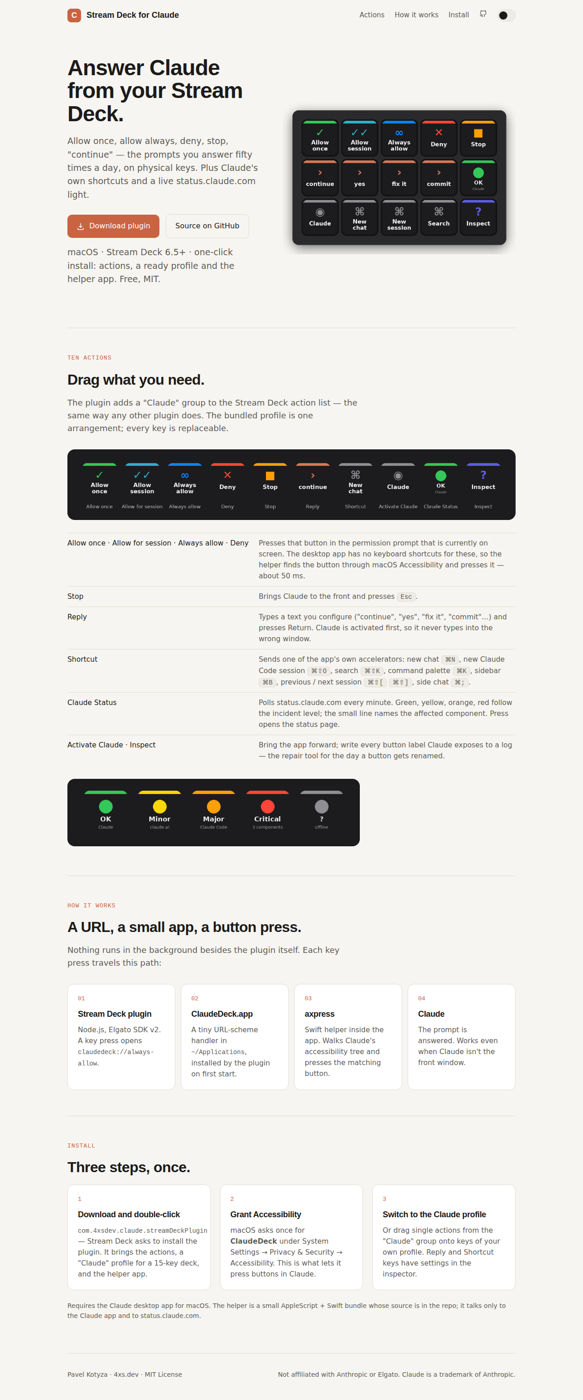
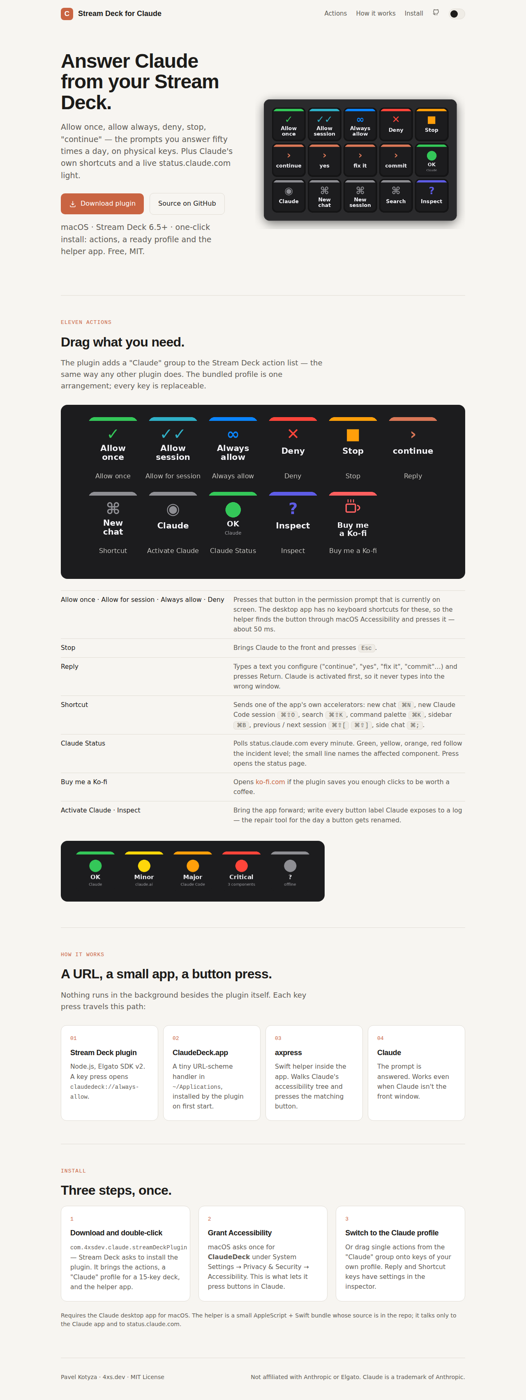
Add Buy me a Ko-fi action (1.2.0); two-row action sheet
Claude-Session: https://claude.ai/code/session_01CF32YfgR6FwNua8v9qMVw3

diff --git a/docs/index.html b/docs/index.html
@@ -42,8 +42,8 @@ h2{font-size:32px;font-weight:700;margin-bottom:12px}
 .card h3{font-size:18px;margin-bottom:8px}
 .card p{margin:0;color:var(--fg2);font-size:15.5px}
 .num{font-family:"IBM Plex Mono",monospace;color:var(--accent);font-size:13px;margin-bottom:10px}
-.sheet{background:var(--deck);border-radius:16px;padding:24px 20px 8px;margin:0 0 28px;overflow:auto}
-.sheet img{display:block;width:100%;min-width:900px;height:auto}
+.sheet{background:var(--deck);border-radius:16px;padding:20px;margin:0 0 28px}
+.sheet img{display:block;width:100%;max-width:890px;margin:0 auto;height:auto}
 .states{background:var(--deck);border-radius:16px;padding:18px 20px;display:inline-block}
 .states img{display:block;height:112px;width:auto}
 table{width:100%;border-collapse:collapse;font-size:15.5px}
@@ -79,16 +79,17 @@ footer a{color:var(--fg2)}footer a:hover{color:var(--fg)}
   </div>
 
   <section id="actions">
-    <div class="eyebrow">Ten actions</div>
+    <div class="eyebrow">Eleven actions</div>
     <h2>Drag what you need.</h2>
     <p class="lead">The plugin adds a "Claude" group to the Stream Deck action list — the same way any other plugin does. The bundled profile is one arrangement; every key is replaceable.</p>
-    <div class="sheet"><img src="img/actions.png" width="1492" height="194" alt="All ten actions: Allow once, Allow for session, Always allow, Deny, Stop, Reply, Shortcut, Activate Claude, Claude Status, Inspect"></div>
+    <div class="sheet"><img src="img/actions.png" width="890" height="384" alt="All actions: Allow once, Allow for session, Always allow, Deny, Stop, Reply, Shortcut, Activate Claude, Claude Status, Inspect, Buy me a Ko-fi"></div>
     <table>
       <tr><td>Allow once · Allow for session · Always allow · Deny</td><td>Presses that button in the permission prompt that is currently on screen. The desktop app has no keyboard shortcuts for these, so the helper finds the button through macOS Accessibility and presses it — about 50 ms.</td></tr>
       <tr><td>Stop</td><td>Brings Claude to the front and presses <kbd>Esc</kbd>.</td></tr>
       <tr><td>Reply</td><td>Types a text you configure ("continue", "yes", "fix it", "commit"…) and presses Return. Claude is activated first, so it never types into the wrong window.</td></tr>
       <tr><td>Shortcut</td><td>Sends one of the app's own accelerators: new chat <kbd>⌘N</kbd>, new Claude Code session <kbd>⌘⇧O</kbd>, search <kbd>⌘⇧K</kbd>, command palette <kbd>⌘K</kbd>, sidebar <kbd>⌘B</kbd>, previous / next session <kbd>⌘⇧[</kbd> <kbd>⌘⇧]</kbd>, side chat <kbd>⌘;</kbd>.</td></tr>
       <tr><td>Claude Status</td><td>Polls status.claude.com every minute. Green, yellow, orange, red follow the incident level; the small line names the affected component. Press opens the status page.</td></tr>
+      <tr><td>Buy me a Ko-fi</td><td>Opens <a href="https://ko-fi.com/K3K6RR4LY">ko-fi.com</a> if the plugin saves you enough clicks to be worth a coffee.</td></tr>
       <tr><td>Activate Claude · Inspect</td><td>Bring the app forward; write every button label Claude exposes to a log — the repair tool for the day a button gets renamed.</td></tr>
     </table>
     <div style="margin-top:28px" class="states"><img src="img/status-states.png" width="752" height="140" alt="Claude Status key in its five states: OK, Minor, Major, Critical, offline"></div>

diff --git a/plugin/com.4xsdev.claude.sdPlugin/bin/plugin.js b/plugin/com.4xsdev.claude.sdPlugin/bin/plugin.js
@@ -9271,6 +9271,13 @@ for (const [id, url] of Object.entries({
     "activate":      "claudedeck://activate",
     "inspect":       "claudedeck://inspect",
 })) streamDeck.actions.registerAction(new UrlAction(`${PLUGIN}.${id}`, url));
+/** Ko-fi — opens the support page. */
+class Kofi extends SingletonAction {
+    manifestId = `${PLUGIN}.kofi`;
+    onKeyDown() { streamDeck.system.openUrl("https://ko-fi.com/K3K6RR4LY"); }
+}
+
+streamDeck.actions.registerAction(new Kofi());
 streamDeck.actions.registerAction(new Reply());
 streamDeck.actions.registerAction(new Shortcut());
 streamDeck.actions.registerAction(new ClaudeStatus());

diff --git a/plugin/src/plugin.js b/plugin/src/plugin.js
@@ -168,6 +168,13 @@ for (const [id, url] of Object.entries({
     "activate":      "claudedeck://activate",
     "inspect":       "claudedeck://inspect",
 })) streamDeck.actions.registerAction(new UrlAction(`${PLUGIN}.${id}`, url));
+/** Ko-fi — opens the support page. */
+class Kofi extends SingletonAction {
+    manifestId = `${PLUGIN}.kofi`;
+    onKeyDown() { streamDeck.system.openUrl("https://ko-fi.com/K3K6RR4LY"); }
+}
+
+streamDeck.actions.registerAction(new Kofi());
 streamDeck.actions.registerAction(new Reply());
 streamDeck.actions.registerAction(new Shortcut());
 streamDeck.actions.registerAction(new ClaudeStatus());

diff --git a/plugin/com.4xsdev.claude.sdPlugin/ui/kofi.html b/plugin/com.4xsdev.claude.sdPlugin/ui/kofi.html
@@ -1,0 +1,9 @@
+<!DOCTYPE html>
+<html><head><meta charset="utf-8">
+<script src="https://sdpi-components.dev/releases/v4/sdpi-components.js"></script></head>
+<body>
+<sdpi-item><small>Enjoying the plugin? Press the key (or the button below) to support development.</small></sdpi-item>
+<sdpi-item label="Support">
+  <a href="https://ko-fi.com/K3K6RR4LY" target="_blank" rel="noopener"><img height="36" style="border:0;height:36px" src="https://storage.ko-fi.com/cdn/kofi6.png?v=6" alt="Buy Me a Coffee at ko-fi.com"></a>
+</sdpi-item>
+</body></html>

diff --git a/site/build_site.py b/site/build_site.py
@@ -44,8 +44,8 @@ h2{font-size:32px;font-weight:700;margin-bottom:12px}
 .card h3{font-size:18px;margin-bottom:8px}
 .card p{margin:0;color:var(--fg2);font-size:15.5px}
 .num{font-family:"IBM Plex Mono",monospace;color:var(--accent);font-size:13px;margin-bottom:10px}
-.sheet{background:var(--deck);border-radius:16px;padding:24px 20px 8px;margin:0 0 28px;overflow:auto}
-.sheet img{display:block;width:100%;min-width:900px;height:auto}
+.sheet{background:var(--deck);border-radius:16px;padding:20px;margin:0 0 28px}
+.sheet img{display:block;width:100%;max-width:890px;margin:0 auto;height:auto}
 .states{background:var(--deck);border-radius:16px;padding:18px 20px;display:inline-block}
 .states img{display:block;height:112px;width:auto}
 table{width:100%;border-collapse:collapse;font-size:15.5px}
@@ -89,16 +89,17 @@ def body(img, toggle_button=True):
   </div>
 
   <section id="actions">
-    <div class="eyebrow">Ten actions</div>
+    <div class="eyebrow">Eleven actions</div>
     <h2>Drag what you need.</h2>
     <p class="lead">The plugin adds a "Claude" group to the Stream Deck action list — the same way any other plugin does. The bundled profile is one arrangement; every key is replaceable.</p>
-    <div class="sheet"><img src="{img('actions.png')}" width="1492" height="194" alt="All ten actions: Allow once, Allow for session, Always allow, Deny, Stop, Reply, Shortcut, Activate Claude, Claude Status, Inspect"></div>
+    <div class="sheet"><img src="{img('actions.png')}" width="890" height="384" alt="All actions: Allow once, Allow for session, Always allow, Deny, Stop, Reply, Shortcut, Activate Claude, Claude Status, Inspect, Buy me a Ko-fi"></div>
     <table>
       <tr><td>Allow once · Allow for session · Always allow · Deny</td><td>Presses that button in the permission prompt that is currently on screen. The desktop app has no keyboard shortcuts for these, so the helper finds the button through macOS Accessibility and presses it — about 50 ms.</td></tr>
       <tr><td>Stop</td><td>Brings Claude to the front and presses <kbd>Esc</kbd>.</td></tr>
       <tr><td>Reply</td><td>Types a text you configure ("continue", "yes", "fix it", "commit"…) and presses Return. Claude is activated first, so it never types into the wrong window.</td></tr>
       <tr><td>Shortcut</td><td>Sends one of the app's own accelerators: new chat <kbd>⌘N</kbd>, new Claude Code session <kbd>⌘⇧O</kbd>, search <kbd>⌘⇧K</kbd>, command palette <kbd>⌘K</kbd>, sidebar <kbd>⌘B</kbd>, previous / next session <kbd>⌘⇧[</kbd> <kbd>⌘⇧]</kbd>, side chat <kbd>⌘;</kbd>.</td></tr>
       <tr><td>Claude Status</td><td>Polls status.claude.com every minute. Green, yellow, orange, red follow the incident level; the small line names the affected component. Press opens the status page.</td></tr>
+      <tr><td>Buy me a Ko-fi</td><td>Opens <a href="https://ko-fi.com/K3K6RR4LY">ko-fi.com</a> if the plugin saves you enough clicks to be worth a coffee.</td></tr>
       <tr><td>Activate Claude · Inspect</td><td>Bring the app forward; write every button label Claude exposes to a log — the repair tool for the day a button gets renamed.</td></tr>
     </table>
     <div style="margin-top:28px" class="states"><img src="{img('status-states.png')}" width="752" height="140" alt="Claude Status key in its five states: OK, Minor, Major, Critical, offline"></div>

diff --git a/profile/build_profile.py b/profile/build_profile.py
@@ -7,7 +7,7 @@ import json, os, shutil, uuid, zipfile
 
 HERE = os.path.dirname(os.path.abspath(__file__))
 OUT = os.path.join(HERE, "build")
-PLUGIN = {"Name": "Claude", "UUID": "com.4xsdev.claude", "Version": "1.1.1.0"}
+PLUGIN = {"Name": "Claude", "UUID": "com.4xsdev.claude", "Version": "1.2.0.0"}
 
 
 def A(aid, name, **settings):

diff --git a/README.md b/README.md
@@ -16,7 +16,7 @@ Requirements: macOS 12+, Stream Deck software 6.5+, the Claude desktop app.
 
 ## Actions
 
-![All ten actions](docs/img/actions.png)
+![All actions](docs/img/actions.png)
 
 | Action | What it does |
 |---|---|
@@ -26,6 +26,7 @@ Requirements: macOS 12+, Stream Deck software 6.5+, the Claude desktop app.
 | **Shortcut** | Sends one of Claude.app's own accelerators: New chat <kbd>⌘N</kbd> · New Claude Code session <kbd>⌘⇧O</kbd> · Search <kbd>⌘⇧K</kbd> · Command palette <kbd>⌘K</kbd> · Sidebar <kbd>⌘B</kbd> · Previous / next session <kbd>⌘⇧[</kbd> <kbd>⌘⇧]</kbd> · Side chat <kbd>⌘;</kbd> |
 | **Activate Claude** | Brings the Claude app to the front. |
 | **Claude Status** | Polls `status.claude.com` every 60 s. Key colour follows the incident level; the small line names the affected component. Press opens the status page. |
+| **Buy me a Ko-fi** | Opens [ko-fi.com](https://ko-fi.com/K3K6RR4LY). Optional, obviously. |
 | **Inspect** | Writes every button label Claude exposes to `~/Library/Logs/ClaudeDeck.log` — the repair tool if Anthropic renames a button. |
 
 ![Claude Status key states](docs/img/status-states.png)
